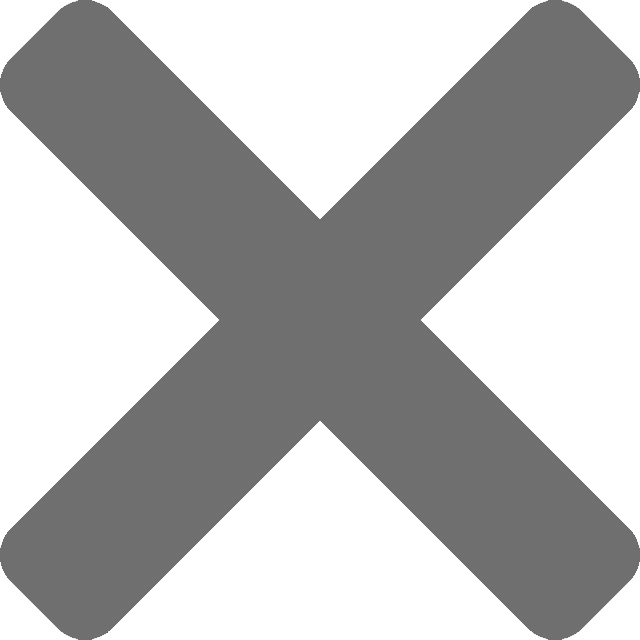
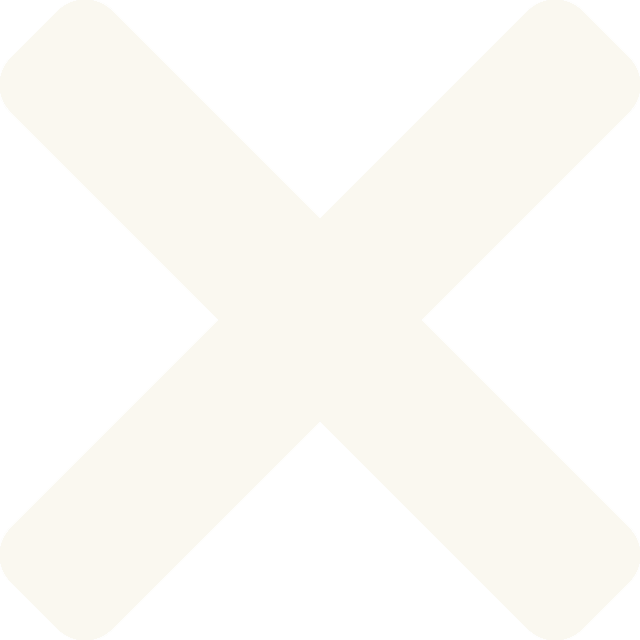
Change position for flash-messages

diff --git a/src/index.css b/src/index.css
@@ -156,22 +156,19 @@ button:hover {
 
 /* Styling for registration and login page */
 .auth {
-  height: calc(100vh - 100px);
-  overflow: auto;
+  min-height: calc(100vh - 100px);
   display: flex;
-  flex-direction: column;
-  align-items: center;
-  text-align: center;
   justify-content: center;
+  align-items: center;
 }
 
 .auth form {
   background-color: rgb(181, 196, 181);
   padding: 20px;
   width: max-content;
-  margin: 10px auto;
+  height: max-content;
+  margin: 10px;
   border-radius: 5px;
-  text-align: left;
 }
 
 .auth label {
@@ -224,17 +221,19 @@ button:hover {
 /* Styling of flash-messages */
 
 .flash {
-  color: rgb(255, 255, 255);
+  color:rgb(250, 248, 240);
+  font-weight: bold;
   max-width: 500px;
-  width: 200px;
-  padding: 15px;
-  padding-top: 20px;
-  text-align: left;
+  padding: 20px;
+  text-align: center;
   font-size: 0.9rem;
-  position: absolute;
-  top: 60px;
-  right: 10px;
   border-radius: 5px;
+  z-index: 1;
+  position: relative;
+  margin: 10px;
+  top: 0;
+  left: 50%;
+  transform: translateX(-50%);
 }
 
 .flash.error {
@@ -248,8 +247,8 @@ button:hover {
 .flash button[type="button"] {
   width: 15px;
   height: 15px;
-  background: no-repeat center/80% url("/public/images/cross-grey.png");
-  background-color: rgba(255, 255, 255, 0.774);
+  background: no-repeat center/80% url("/public/images/cross-light.png");
+  background-color: none;
   position: absolute;
   right: 5px;
   top: 5px;
